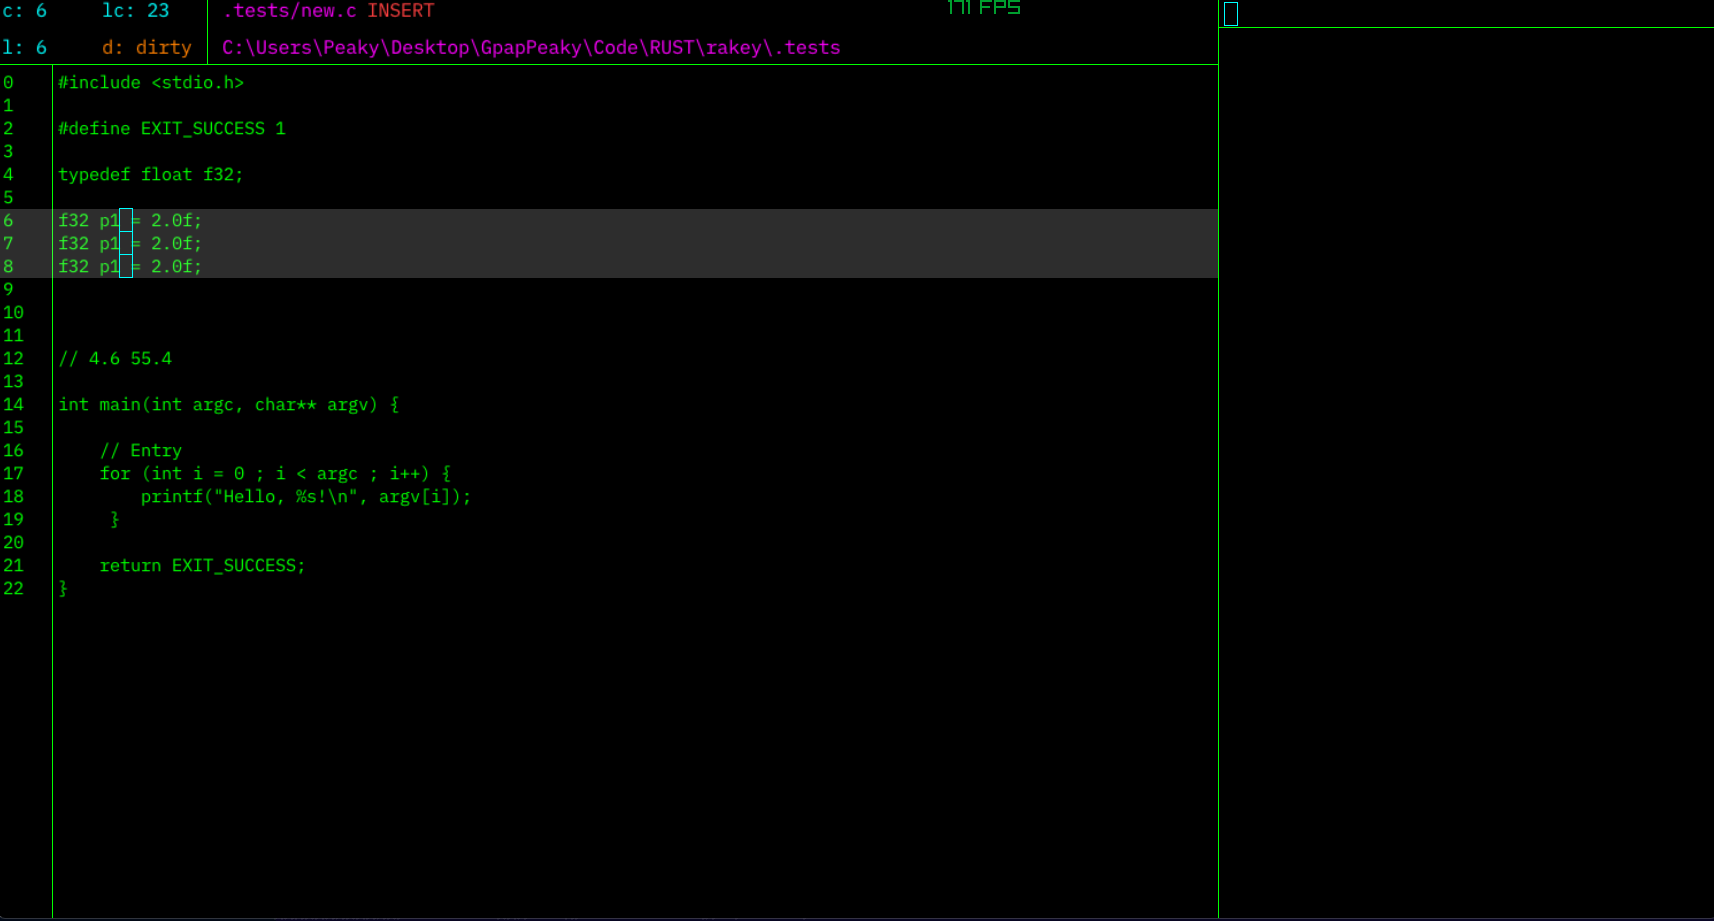
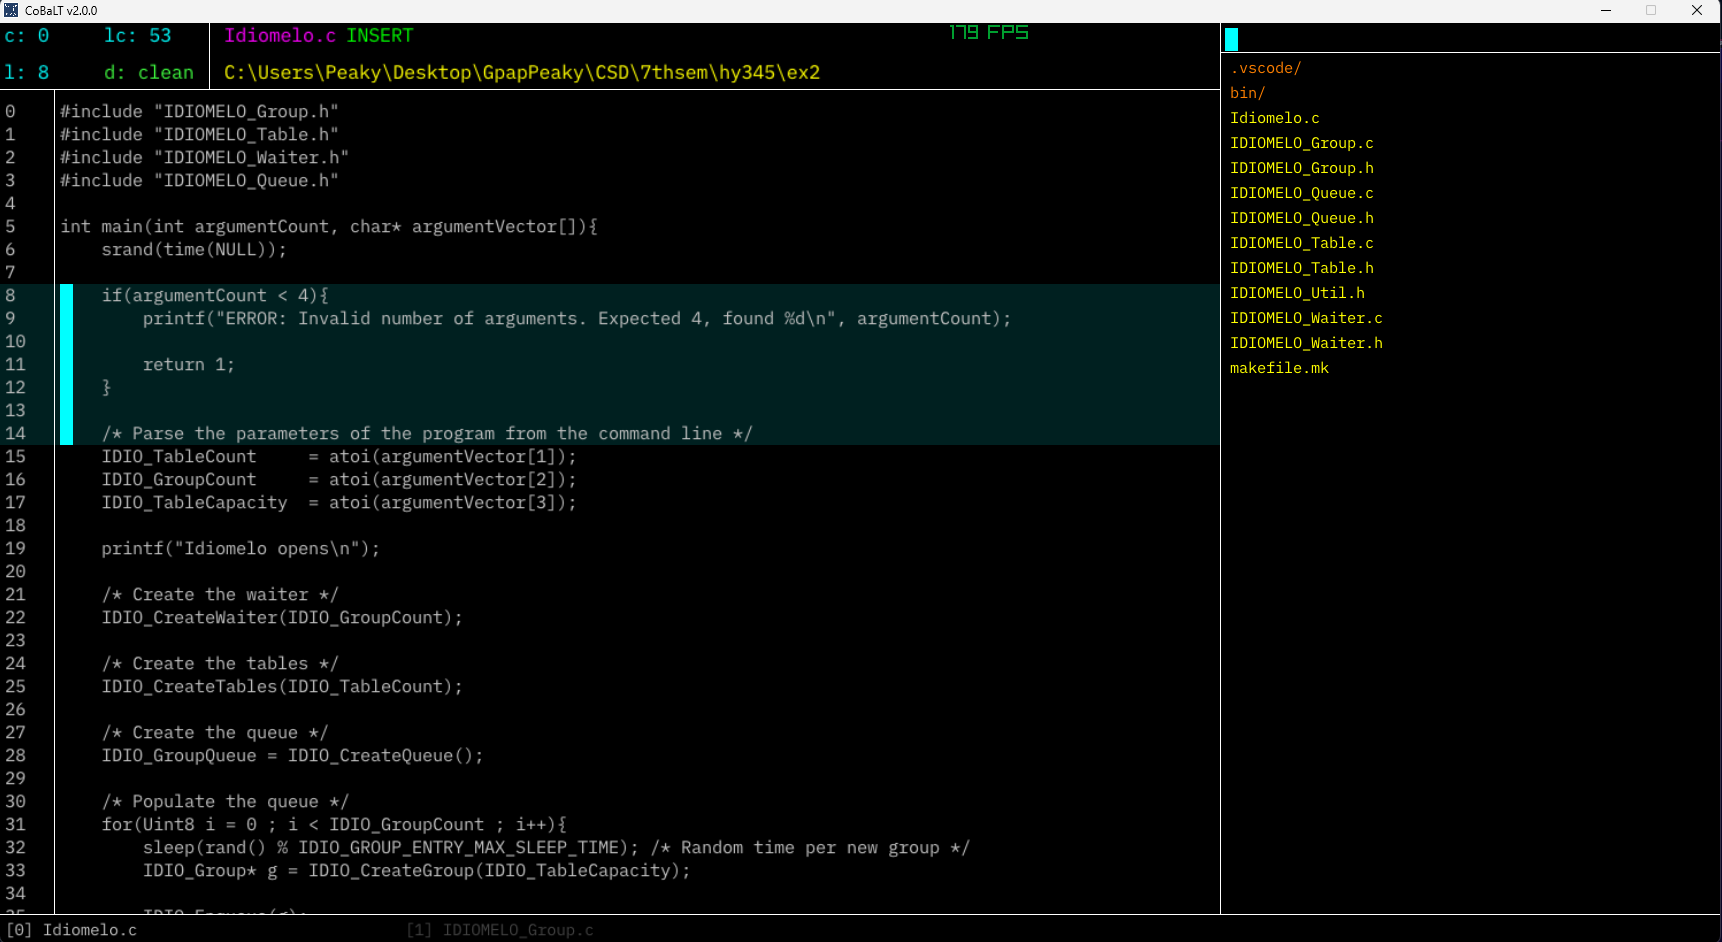
2.0.0 release and .dll building options, updated README/LICENSE

Changed region(s): [[0.0, 0.0, 1.0, 1.0]]

diff --git a/CoBaLT.cpp b/CoBaLT.cpp
@@ -71,7 +71,7 @@ UT::i32 main() {
 
             // cam.Draw();
 
-            DrawFPS(950, 0);
+            // DrawFPS(950, 0);
         EndDrawing();
     }
 

diff --git a/README.md b/README.md
@@ -1,11 +1,295 @@
 # CoBaLT (v2.0.0)
 
-**The Console-Oriented Basic Line Transformer**, (formely known as Muse) is a lightweight console-based editor that allows users to manage files, directories, and editor configurations directly from a command-line interface. The editor supports switching between console mode and insert mode seamlessly, along with a wide range of file, directory, and editor management directives.
+**The Console-Oriented Basic Line Transformer** (formerly known as Muse) is a lightweight console-based editor that allows users to manage files, directories, and editor configurations directly from a command-line interface. The editor supports switching between console mode and insert mode seamlessly, along with a wide range of file, directory, and editor management directives.
 
 <p align="center">
-  <img src = "assets/icon/mdmuse.png"/>
+  <img src="assets/icon/mdmuse.png"/>
 </p>
 
 <p align="center">
-  <img src = "assets/md/md.png"/>
+  <img src="assets/md/md.png"/>
 </p>
+
+---
+
+## Features
+
+- **Console Mode**: Execute directives for file and directory management
+- **Insert Mode**: Full-featured text editing with syntax-aware features
+- **Multi-cursor Support**: Edit multiple locations simultaneously
+- **Selection Mode**: Copy and manipulate text selections
+- **Smart Indentation**: Automatic bracket matching and indentation
+- **File Queue**: Manage multiple open files with easy switching
+
+---
+
+## Keyboard Shortcuts
+
+### General Editor Controls
+
+| Shortcut | Action |
+|----------|--------|
+| `Ctrl + E` | Exit CoBaLT |
+| `Ctrl + W` | Save current file and exit |
+| `Ctrl + S` | Save current file |
+| `Ctrl + ~` | Toggle console mode |
+| `Esc` | Close console messages |
+
+### File Navigation
+
+| Shortcut | Action |
+|----------|--------|
+| `Ctrl + .` | Switch to next loaded file |
+| `Ctrl + ,` | Switch to previous loaded file |
+| `Ctrl + Q` | Close current file (remove from queue) |
+| `Ctrl + O` | Open native folder picker |
+| `Ctrl + I` | Display current file info and metadata |
+
+### Cursor Movement
+
+| Shortcut | Action |
+|----------|--------|
+| `Arrow Keys` | Move cursor in respective direction |
+| `Ctrl + Left/Right` | Jump to word boundaries |
+| `Home` | Move to start of line |
+| `End` | Move to end of line |
+
+### Multi-cursor Operations
+
+| Shortcut | Action |
+|----------|--------|
+| `Ctrl + Alt + Down` | Create cursor below |
+| `Ctrl + Alt + Up` | Create cursor above |
+| `Ctrl + P` | Reset to single primary cursor |
+
+### Editing Operations
+
+| Shortcut | Action |
+|----------|--------|
+| `Ctrl + X` | Cut current line (or delete and copy to clipboard) |
+| `Ctrl + D` | Duplicate current line |
+| `Ctrl + V` | Paste from clipboard |
+| `Ctrl + /` | Toggle line comment (add/remove `//`) |
+| `Tab` | Insert spaces (auto-aligned to tab stops) |
+| `Backspace` | Delete character or indentation block |
+| `Enter` | New line with auto-indentation |
+
+### Selection Mode
+
+| Shortcut | Action |
+|----------|--------|
+| `Ctrl + K` | Enter selection mode |
+| `Ctrl + K` (again) | Copy selection and exit selection mode |
+| `Ctrl + C` | Copy selection and exit selection mode |
+
+### Console Resizing
+
+| Shortcut | Action |
+|----------|--------|
+| `Shift + Left` | Expand console width |
+| `Shift + Right` | Shrink console width |
+
+---
+
+## Console Directives
+
+Console directives are prefixed with `@` and executed in console mode (`Ctrl + ~`). Files can also be opened by typing their name directly (without `@`).
+
+### File Management
+
+| Directive | Parameters | Description |
+|-----------|------------|-------------|
+| `@c` | `<filename>` | Create a new file |
+| `@r` | `<filename>` | Remove/delete a file |
+| `@w` | - | Write/save current file |
+| `<filename>` | - | Switch to an existing file in current directory |
+
+### Directory Management
+
+| Directive | Parameters | Description |
+|-----------|------------|-------------|
+| `@m` | `<dirname>` | Make/create a new directory |
+| `@d` | `<dirname>` | Delete a directory (recursive) |
+| `@cd` | `<path>` | Change to specified directory |
+| `@cd` | `..` | Go up one directory level |
+
+### Editor Commands
+
+| Directive | Parameters | Description |
+|-----------|------------|-------------|
+| `@e` | - | Exit CoBaLT |
+| `@we` | - | Write current file and exit |
+| `@h` | - | Display help guide |
+| `@i` | - | Display current file info and metadata |
+| `@o` | - | Open native folder picker dialog |
+
+---
+
+## Usage Examples
+
+### Creating and Editing Files
+
+```
+1. Press Ctrl + ~ to open console
+2. Type: @c myfile.txt
+3. Press Enter
+4. Start editing in insert mode
+5. Press Ctrl + S to save
+```
+
+### Directory Navigation
+
+```
+1. Press Ctrl + ~ to open console
+2. Type: @cd src
+3. Press Enter to navigate to 'src' directory
+4. Type: @cd .. to go back up
+```
+
+### Working with Multiple Files
+
+```
+1. Open file: myfile.txt
+2. Press Ctrl + . to switch to next file
+3. Press Ctrl + , to switch to previous file
+4. Press Ctrl + Q to close current file
+```
+
+### Multi-cursor Editing
+
+```
+1. Press Ctrl + Alt + Down to create cursors on lines below
+2. Type to edit all cursor positions simultaneously
+3. Press Ctrl + P to return to single cursor
+```
+
+### Selection and Copy
+
+```
+1. Press Ctrl + K to enter selection mode
+2. Use arrow keys to select text
+3. Press Ctrl + K or Ctrl + C to copy and exit selection
+4. Press Ctrl + V to paste
+```
+
+---
+
+## Smart Editing Features
+
+### Auto-bracket Completion
+
+When typing opening brackets, CoBaLT automatically inserts the closing bracket:
+- `{` → `{}`
+- `(` → `()`
+- `[` → `[]`
+
+### Smart Indentation
+
+When pressing Enter after an opening brace `{`, CoBaLT automatically:
+1. Creates a new indented line
+2. Positions cursor at the correct indentation level
+3. Adds a closing brace `}` on the next line with proper indentation
+
+### Comment Toggling
+
+`Ctrl + /` intelligently toggles C++ style comments:
+- Empty line: Adds `//`
+- Line with `//`: Removes the comment marker
+- Line without `//`: Adds comment at the start
+
+---
+
+## Console Messages
+
+CoBaLT displays different types of console messages:
+
+- **INFO** (Green): Successful operations and status updates
+- **ERROR** (Red): Failed operations and invalid commands
+- **GUIDE** (Yellow): Help information and command reference
+
+Press `Esc` to dismiss any active message.
+
+---
+
+## File Queue System
+
+CoBaLT maintains a queue of open files:
+- Use `Ctrl + .` and `Ctrl + ,` to navigate between files
+- Use `Ctrl + Q` to close the current file
+- The console shows files in the current directory
+- Type a filename in console mode to quickly switch to it
+
+---
+
+## Tips and Best Practices
+
+1. **Quick File Switching**: In console mode, start typing a filename - the list automatically filters to matching files
+2. **Multi-cursor Power**: Use `Ctrl + Alt + Up/Down` to create cursors, then edit multiple lines at once
+3. **Smart Navigation**: Use `Ctrl + Left/Right` to jump between words quickly
+4. **Console Filtering**: When in console mode, typing filters the file/directory list in real-time
+5. **Indentation Blocks**: Backspace automatically removes tab-sized blocks of spaces for cleaner editing
+
+---
+
+## Building and Installation
+
+>You can personally build this project in git bash by typing sh scripts/make.mk or by executing make -f make.mk in the root diretory.
+
+---
+
+## License
+
+```
+Creative Commons Attribution-NonCommercial-ShareAlike 4.0 International License
+
+Copyright (c) 2025 CoBaLT Project Contributors
+
+================================================================================
+
+This work is licensed under the Creative Commons Attribution-NonCommercial-ShareAlike 4.0 International License.
+
+You are free to:
+
+  * Share — copy and redistribute the material in any medium or format
+  * Adapt — remix, transform, and build upon the material
+
+Under the following terms:
+
+  * Attribution — You must give appropriate credit, provide a link to the 
+    license, and indicate if changes were made. You may do so in any 
+    reasonable manner, but not in any way that suggests the licensor 
+    endorses you or your use.
+
+  * NonCommercial — You may NOT use the material for commercial purposes.
+
+  * ShareAlike — If you remix, transform, or build upon the material, you 
+    must distribute your contributions under the same license as the original.
+
+  * No additional restrictions — You may not apply legal terms or 
+    technological measures that legally restrict others from doing anything 
+    the license permits.
+
+Notices:
+
+You do not have to comply with the license for elements of the material in 
+the public domain or where your use is permitted by an applicable exception 
+or limitation.
+
+No warranties are given. The license may not give you all of the permissions 
+necessary for your intended use. For example, other rights such as publicity, 
+privacy, or moral rights may limit how you use the material.
+
+================================================================================
+
+For commercial licensing inquiries, please contact: [your-email@example.com]
+
+Full license text available at:
+https://creativecommons.org/licenses/by-nc-sa/4.0/legalcode
+
+```
+
+---
+
+## Credits
+
+**Developed by GpapPeaky | Giorgos Papamatthaiakis**
